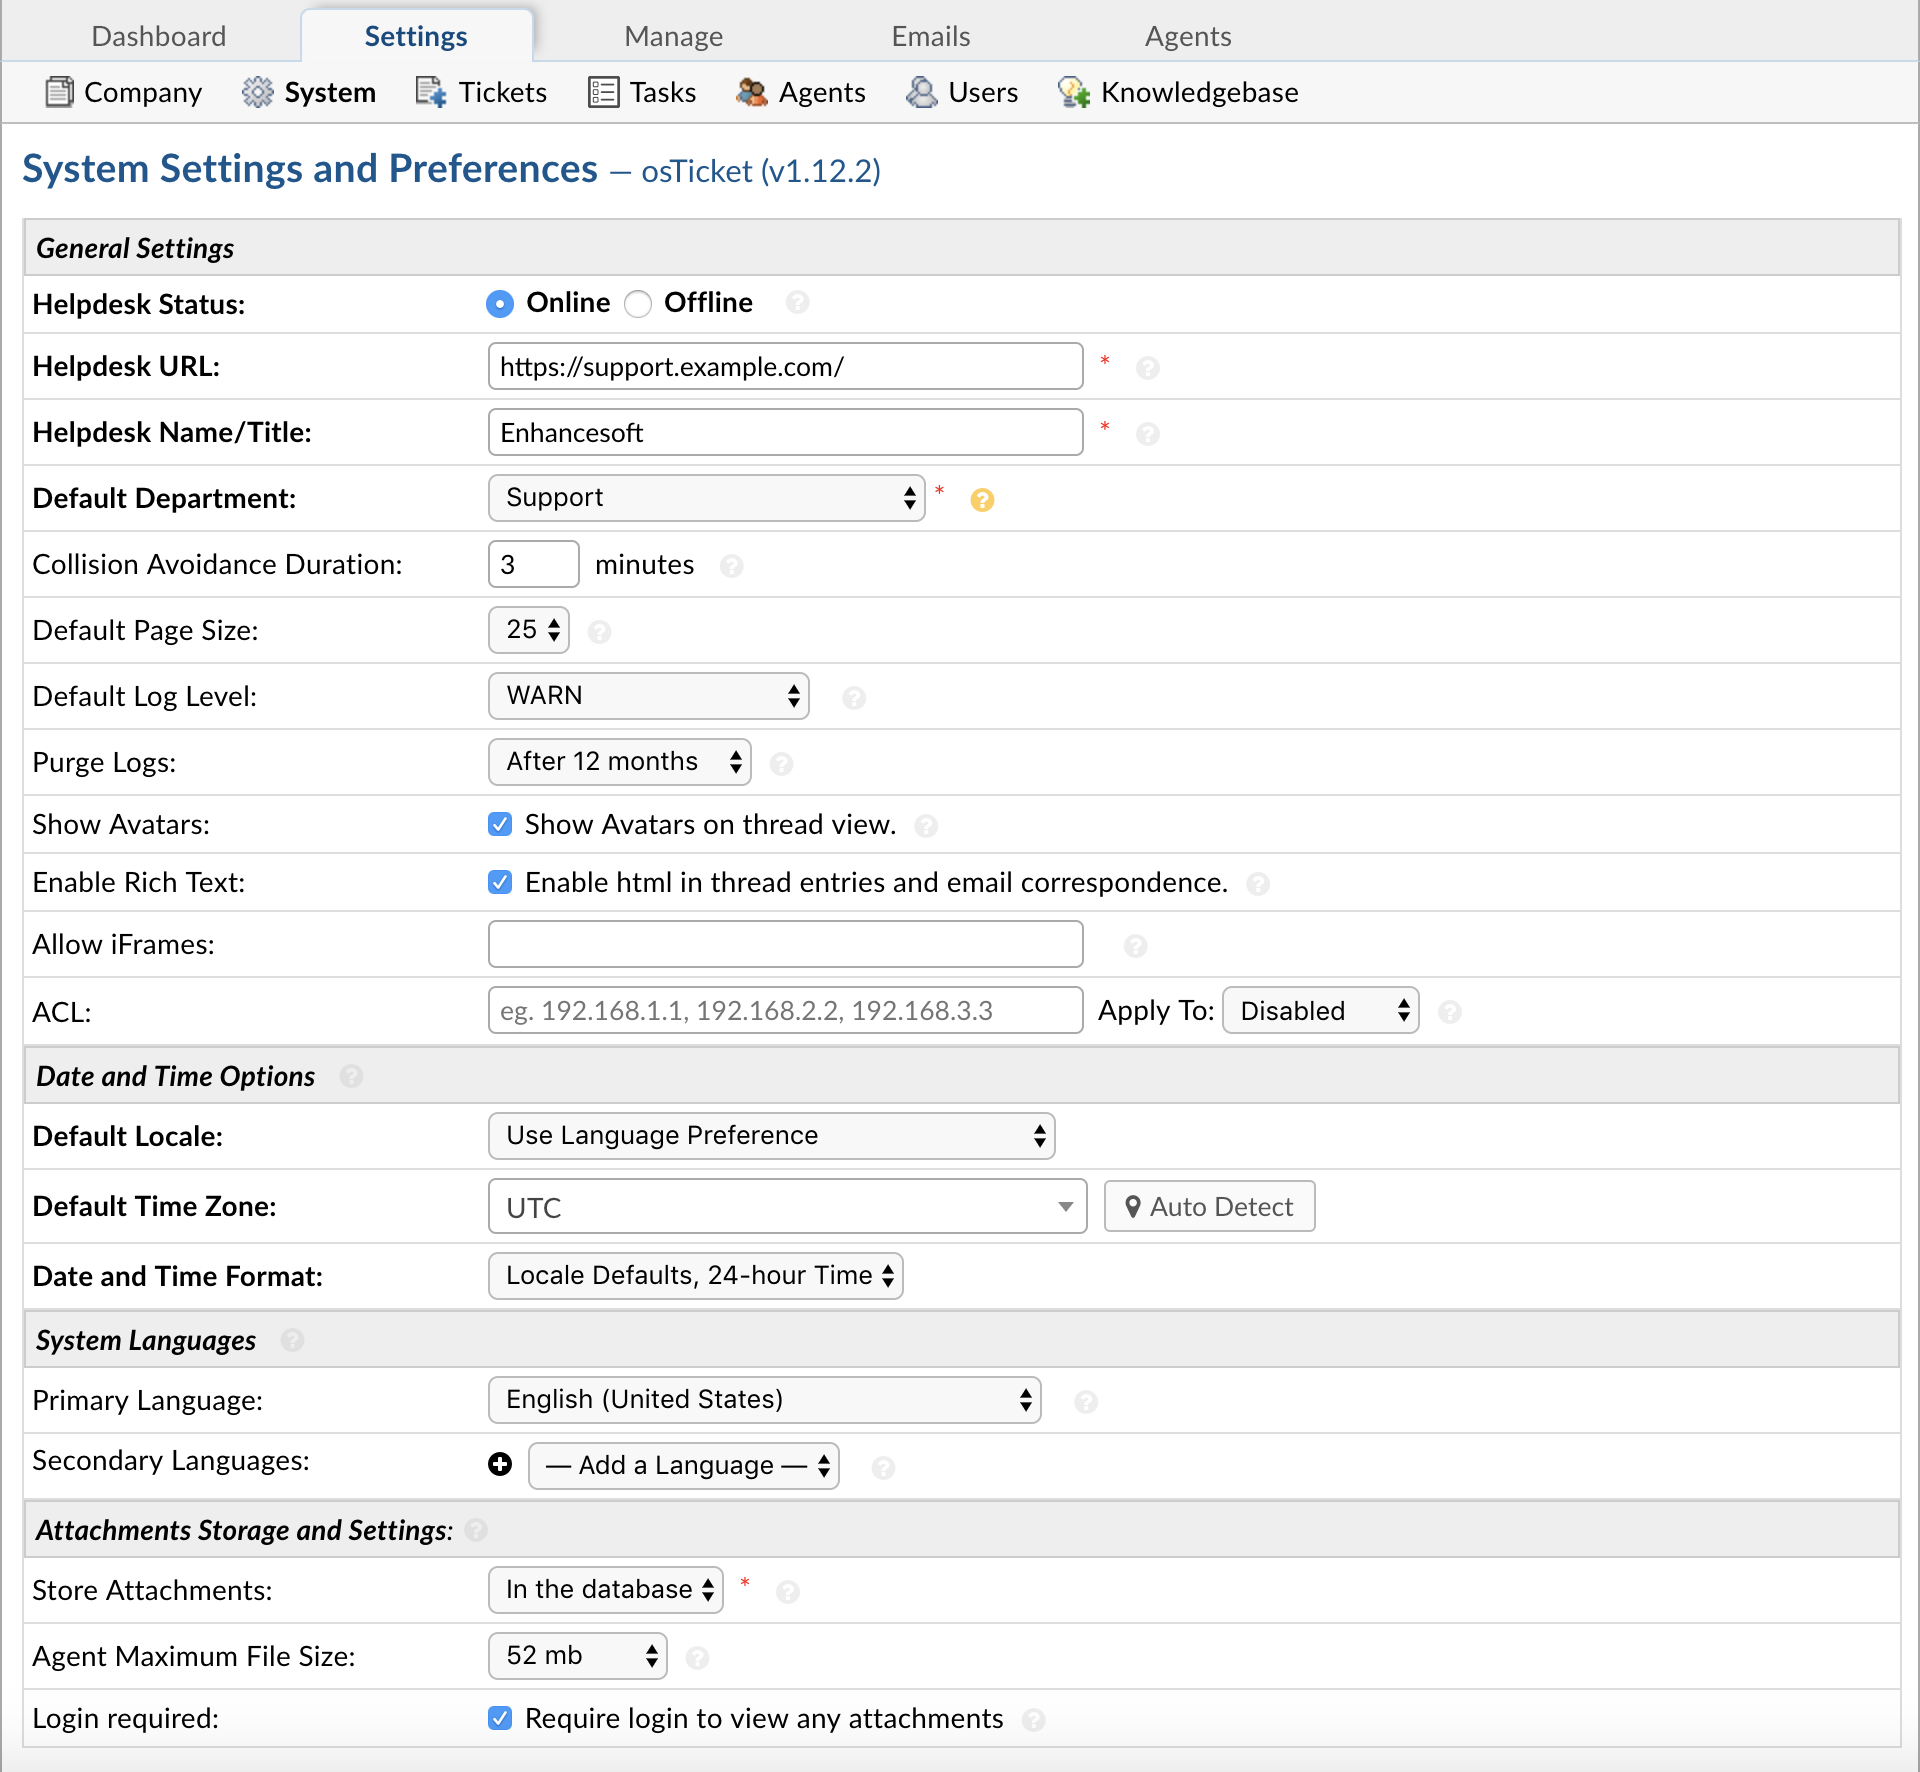
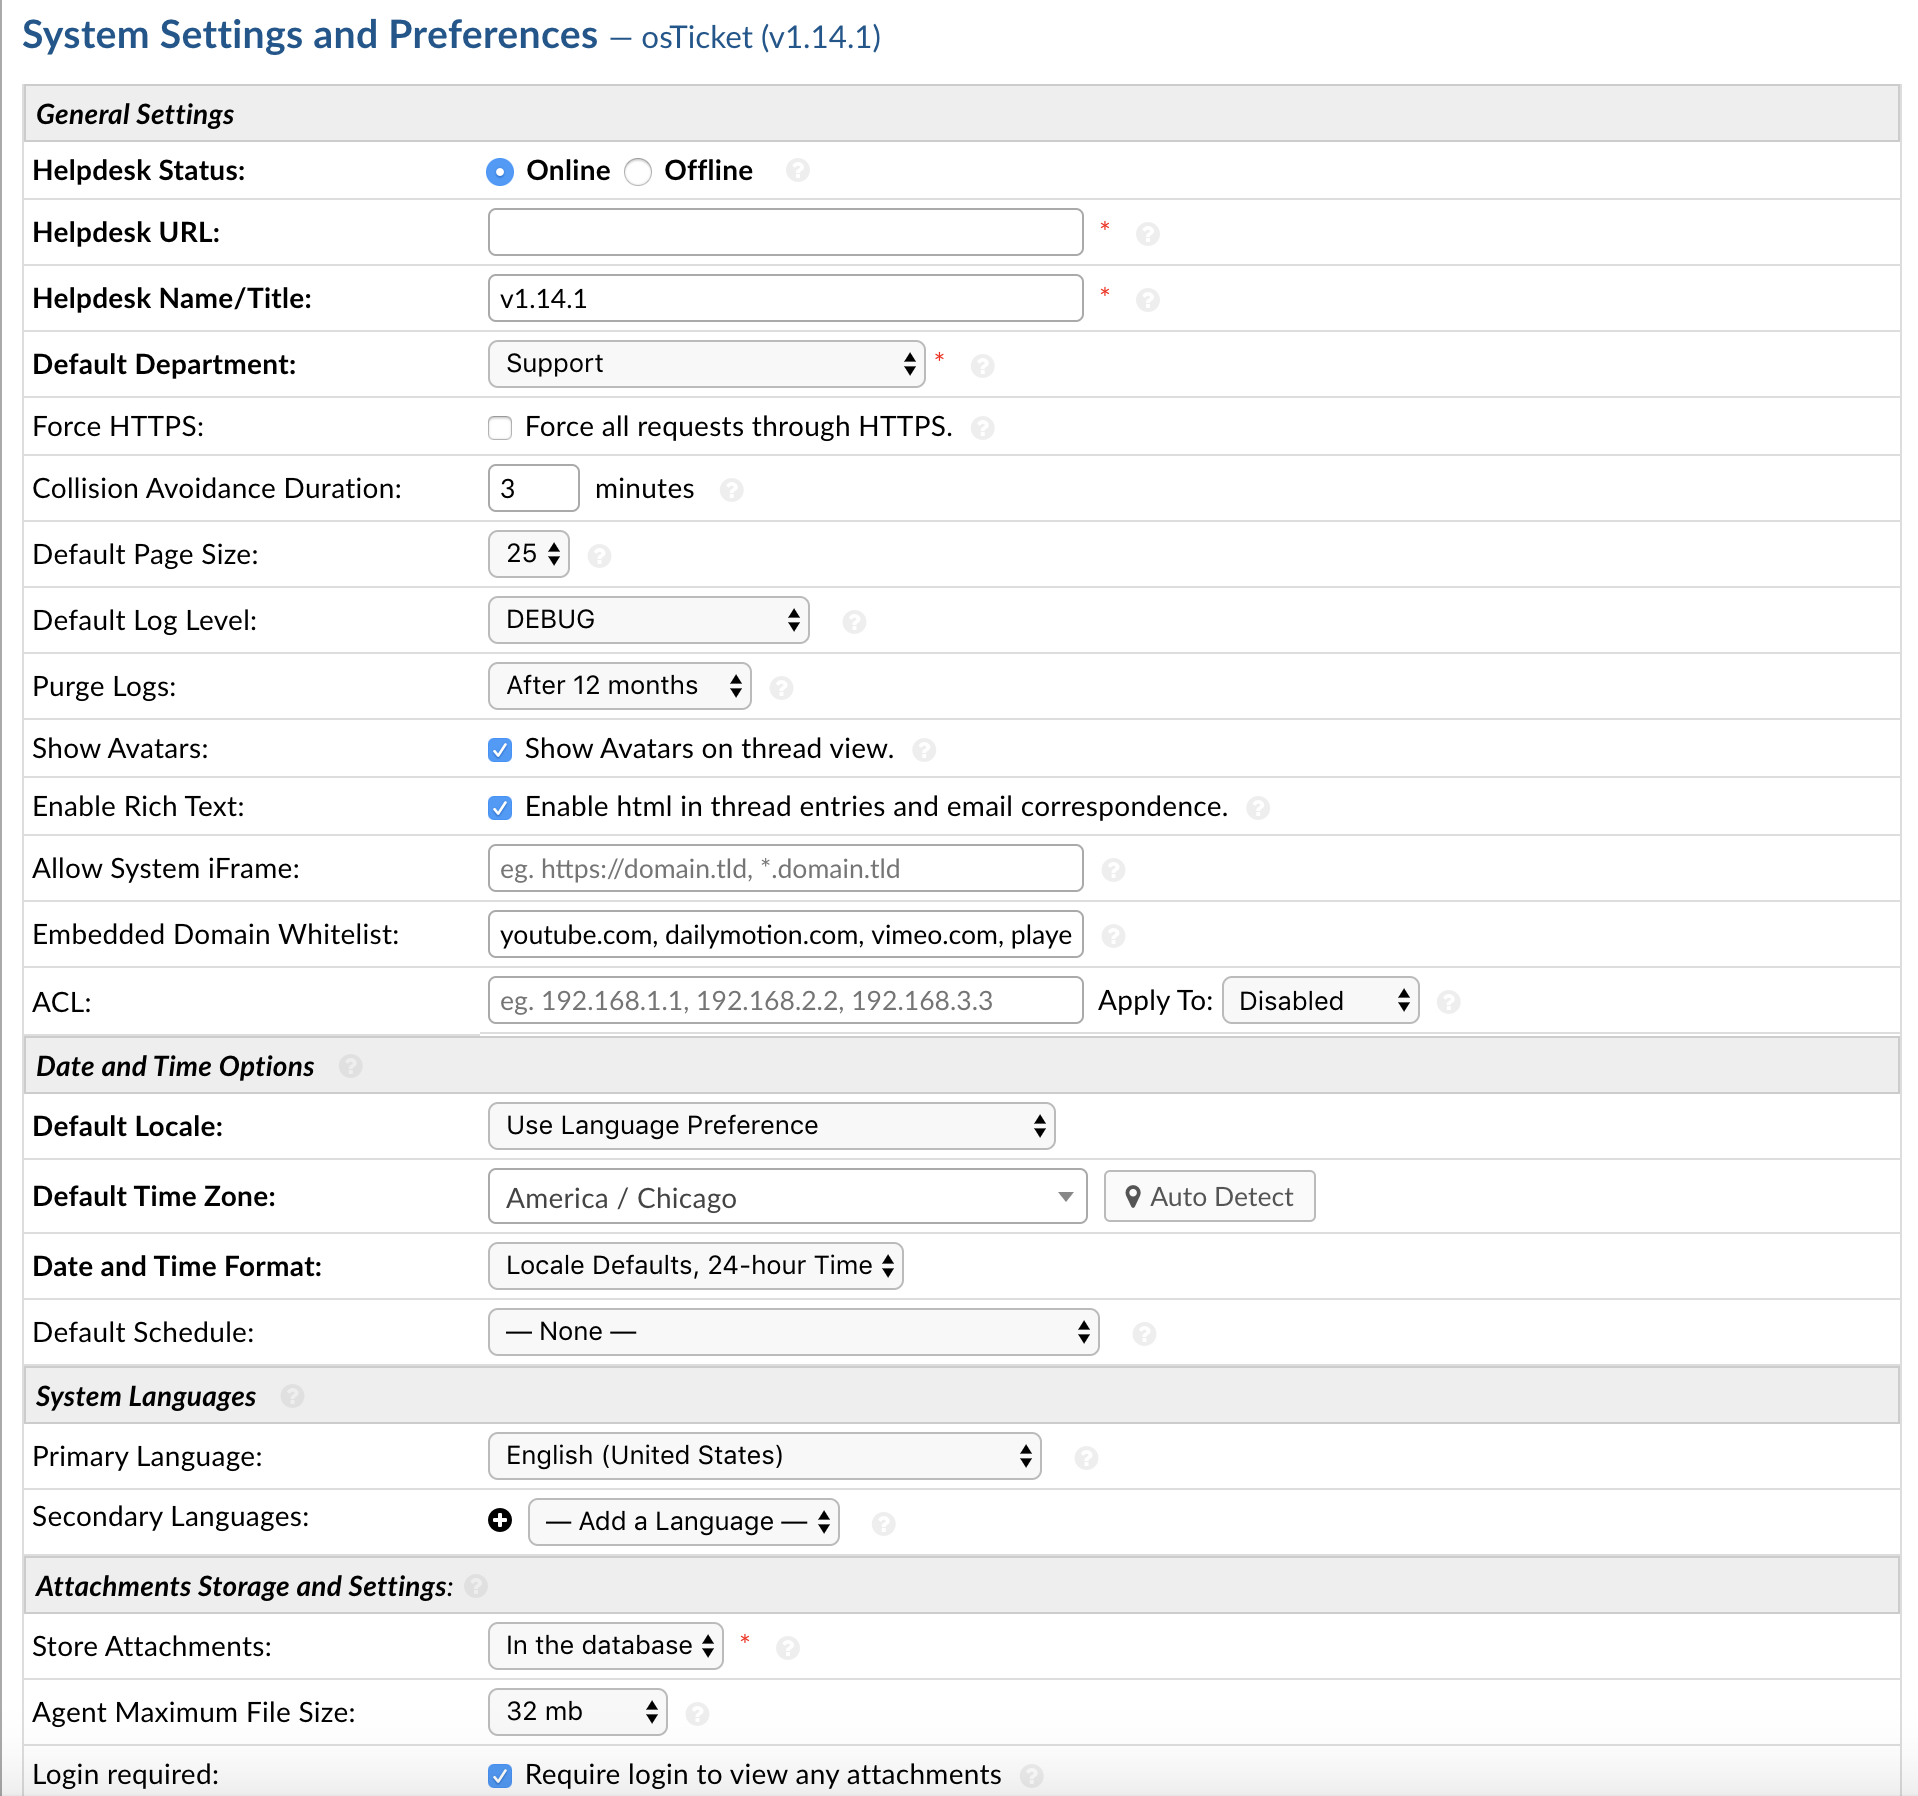
update: System Settings
This updates the System Settings page to include the new settings `Force HTTPS` and `Embedded Domain Whitelist`. This also updates the image for the settings preview.

Changed region(s): [[0.0, 0.0, 1.0, 1.0], [0.2461, 0.1552, 0.7383, 0.5897]]

diff --git a/Admin/Settings/System.rst b/Admin/Settings/System.rst
@@ -17,6 +17,8 @@ General Settings
 
 **Default Department:** Choose a default Department for tickets that are not otherwise routed to a specific department. Tickets can be routed-based on help topics, incoming emails, and ticket filter settings.
 
+**Force HTTPS:** This setting allows Admins to configure wether or not they want to Force HTTPS system-wide. If enabled, any request that is using the HTTP protocol will be redirected to the HTTPS protocol. Note, this will only work if you have an SSL certificate installed and have HTTPS configured on the server.
+
 **Collision Avoidance Duration:** Enter the maximum length of time an Agent is allowed to hold a lock on a ticket or task without any activity. Enter 0 to disable the lockout feature.
 
 **Default Page Size:** Choose the number of items shown per page in the Ticket Queues of the Agent Panel. Each Agent can also customize this number for their own account under My Preferences.
@@ -29,10 +31,11 @@ General Settings
 
 **Enable HTML/Rich Text:** If enabled, this will permit the use of rich text formatting between Clients and Agents.
 
-**ACL:** ACL (or Access Control List) is a feature allowing you to limit access to your entire helpdesk (or specific panels) to a list of IP addresses. See full documentation :doc:`here <../../Features/ACL (Access Control List)>`.
-
 **Allow iFrames:** This is a setting to allow specified domains to use your helpdesk in an iFrame. By default no one is allowed to use your helpdesk in an iFrame for security purposes. If however you'd like to use your helpdesk in an iFrame on your company website/forum/etc you can enter the site domain in the Allow iFrames textbox and the site will be able to use your helpdesk in an iFrame. This option accepts domain wildcards, HTTP/HTTPS URL scheme, and port numbers. For more information on these formats view the :code:`<host-source>` options in `this link <https://developer.mozilla.org/en-US/docs/Web/HTTP/Headers/Content-Security-Policy/frame-ancestors#Sources>`__. *Example:* :code:`https://domain.tld, sub.domain.tld:443, http://*.domain.tld`
 
+**Embedded Domain Whitelilst:** Enter a comma separated list of domains to be whitelisted for iFrames used in the system. Do not input :code:`http(s)` or :code:`www` with the domain; only the domain name will be accepted. This is used when you would like to embed content in the system (eg. YouTube video) via Client Portal, Knowledgebase, etc. If you add an iFrame with a non-whitelisted domain, the system will remove the iFrame automatically. By default the system allows YouTube, Vimeo, DailyMotion, and Microsoft Stream. *Example:* :code:`domain.tld, sub.domain.tld`
+
+**ACL:** ACL (or Access Control List) is a feature allowing you to limit access to your entire helpdesk (or specific panels) to a list of IP addresses. See full documentation :doc:`here <../../Features/ACL (Access Control List)>`.
 
 Date & Time Settings
 --------------------
